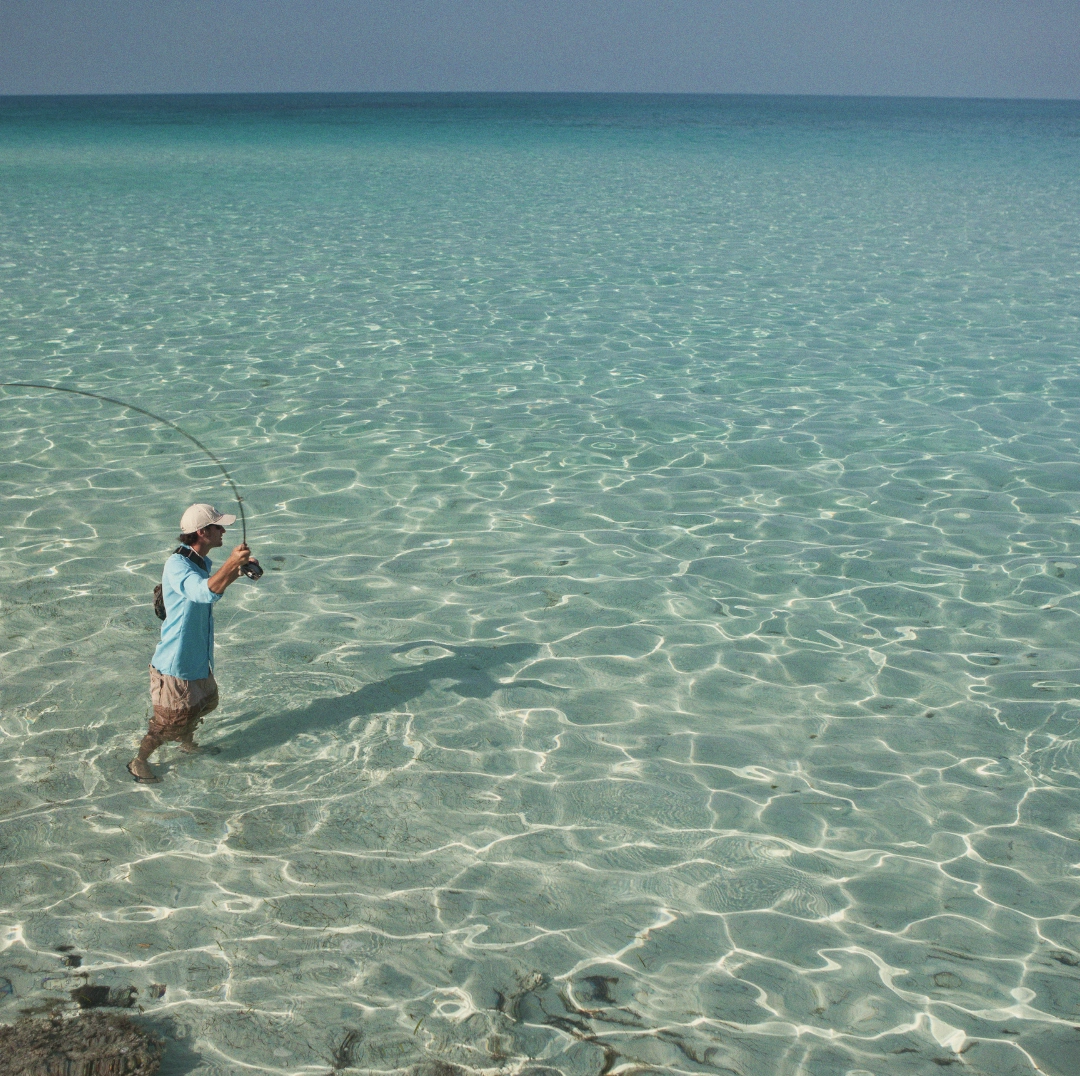
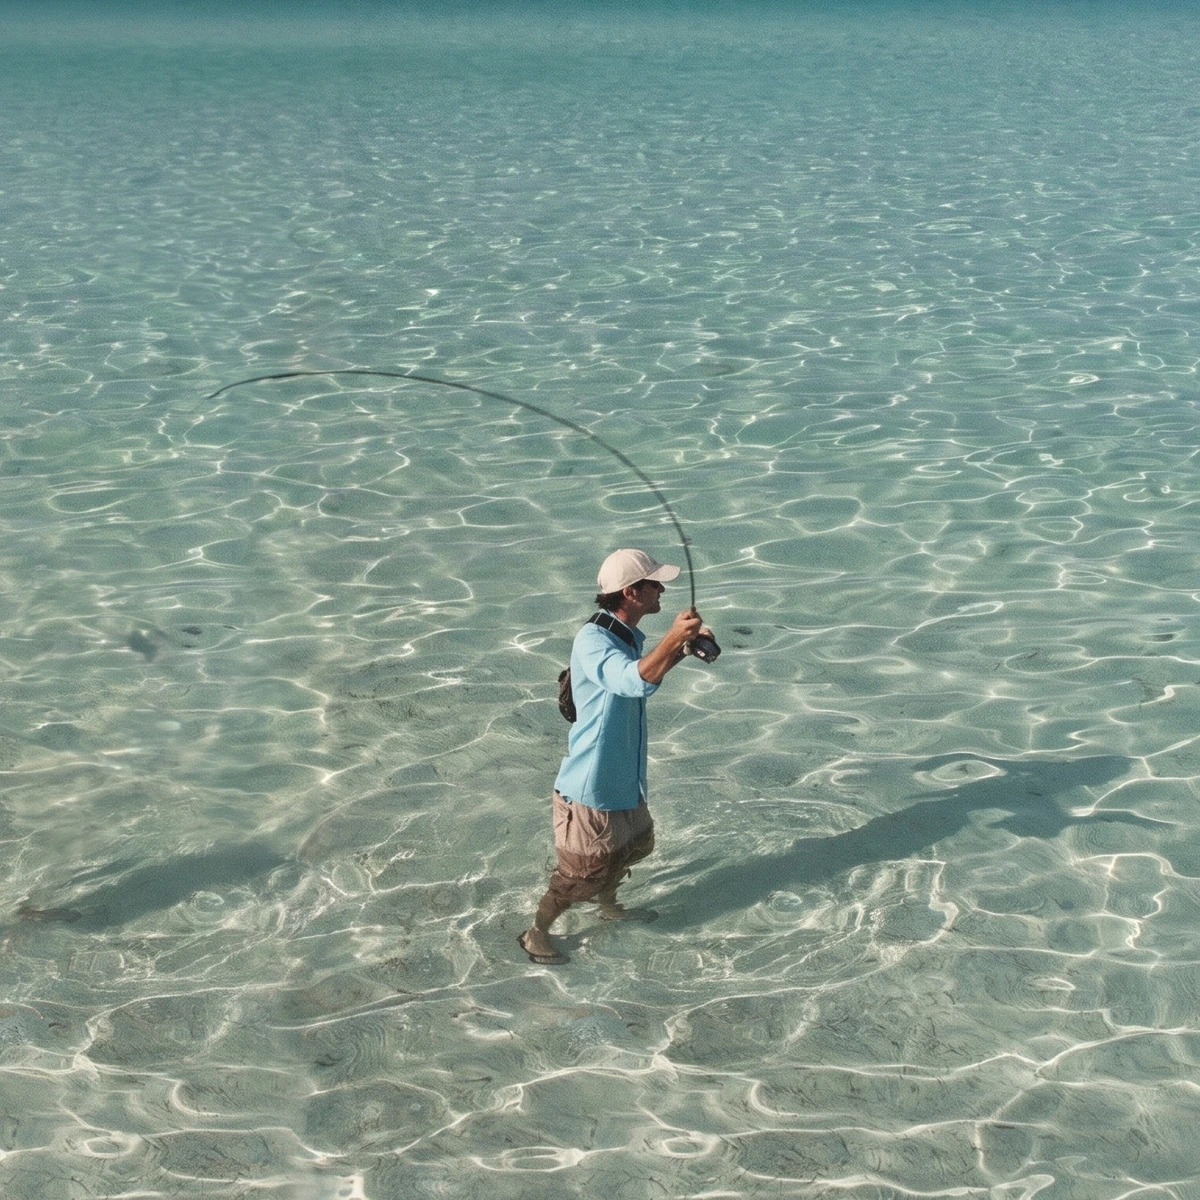
Bahamas : pêcheur recentré, tortue de Green Cay, Junkanoo sur la plage

diff --git a/src/content/experiences/soiree-junkanoo-plage.tsx b/src/content/experiences/soiree-junkanoo-plage.tsx
@@ -8,7 +8,7 @@ export const experience: Experience = {
   keywords: ["bahamas", "junkanoo", "nassau", "musique", "fete"],
   heroImage: {
     src: "/destination/bahamas/xp-junkanoo.webp",
-    alt: "Tambour et costume de plumes d'un danseur de Junkanoo dans une rue de Nassau",
+    alt: "Danseurs de Junkanoo en costumes de franges et de plumes sur la plage, devant la table du dîner, Bahamas",
   },
   destinationSlugs: ["bahamas"],
   sections: [],

diff --git a/src/content/experiences/catamaran-prive-green-cay.tsx b/src/content/experiences/catamaran-prive-green-cay.tsx
@@ -8,7 +8,7 @@ export const experience: Experience = {
   keywords: ["bahamas", "green cay", "nassau", "catamaran", "tortues"],
   heroImage: {
     src: "/destination/bahamas/xp-catamaran-green-cay.webp",
-    alt: "Catamaran privé au mouillage devant une caye déserte, aux Bahamas",
+    alt: "Nageuse aux côtés d'une tortue verte dans l'eau claire de Green Cay, Bahamas",
   },
   destinationSlugs: ["bahamas"],
   sections: [],

diff --git a/references/destination/bahamas/SOURCES.md b/references/destination/bahamas/SOURCES.md
@@ -41,3 +41,6 @@ Les fichiers de référence sont arrivés en double extension (`hero-1.png.png`)
 | `map-long-island.webp`         | `map-long-island-ref.png`           | Gemini `--inspire` — image neuve | image générée |
 | `xp-harbour-island-1.webp` | IA (mode --inspire) d'après une miniature Google Images (sable rose vu du ciel), refaite le 16/10/2026 | |
 | `xp-harbour-island-2.webp` | Miniature Google Images (banc de sable rose), agrandie fidèlement, saturation adoucie ; aspect possiblement retouché à l'origine | À confirmer |
+| `xp-bonefish.webp` | Recadrée sur le pêcheur, eau prolongée à gauche par IA | |
+| `xp-catamaran-green-cay.webp` | GetYourGuide (tortue et nageuse), recadrée, turquoise adouci | À confirmer |
+| `xp-junkanoo.webp` | IA (mode --inspire) d'après bahamahealth.com, transposée sur une plage près d'un restaurant | |
